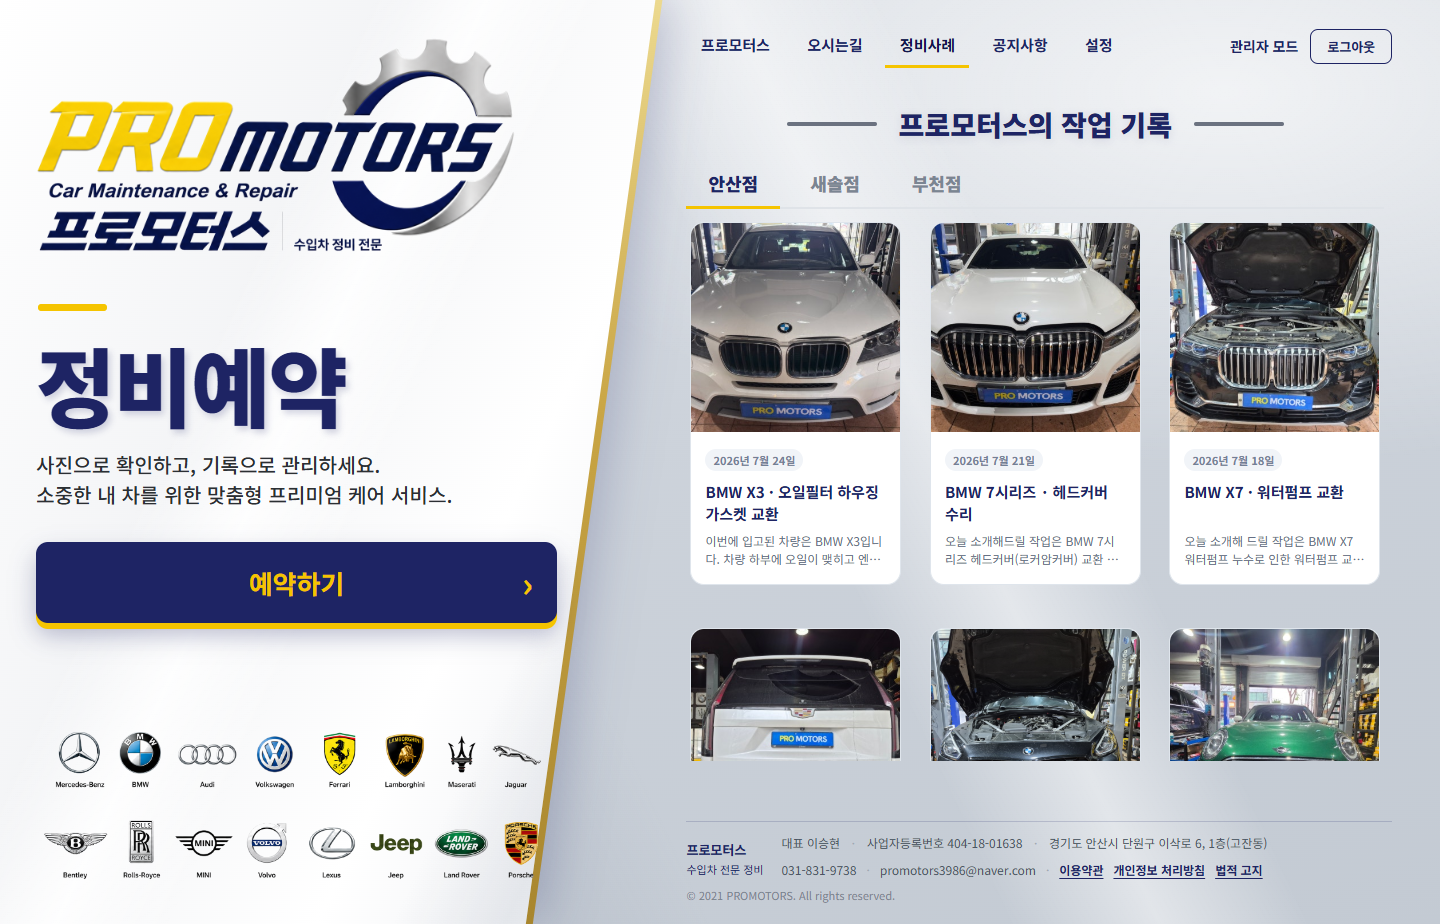
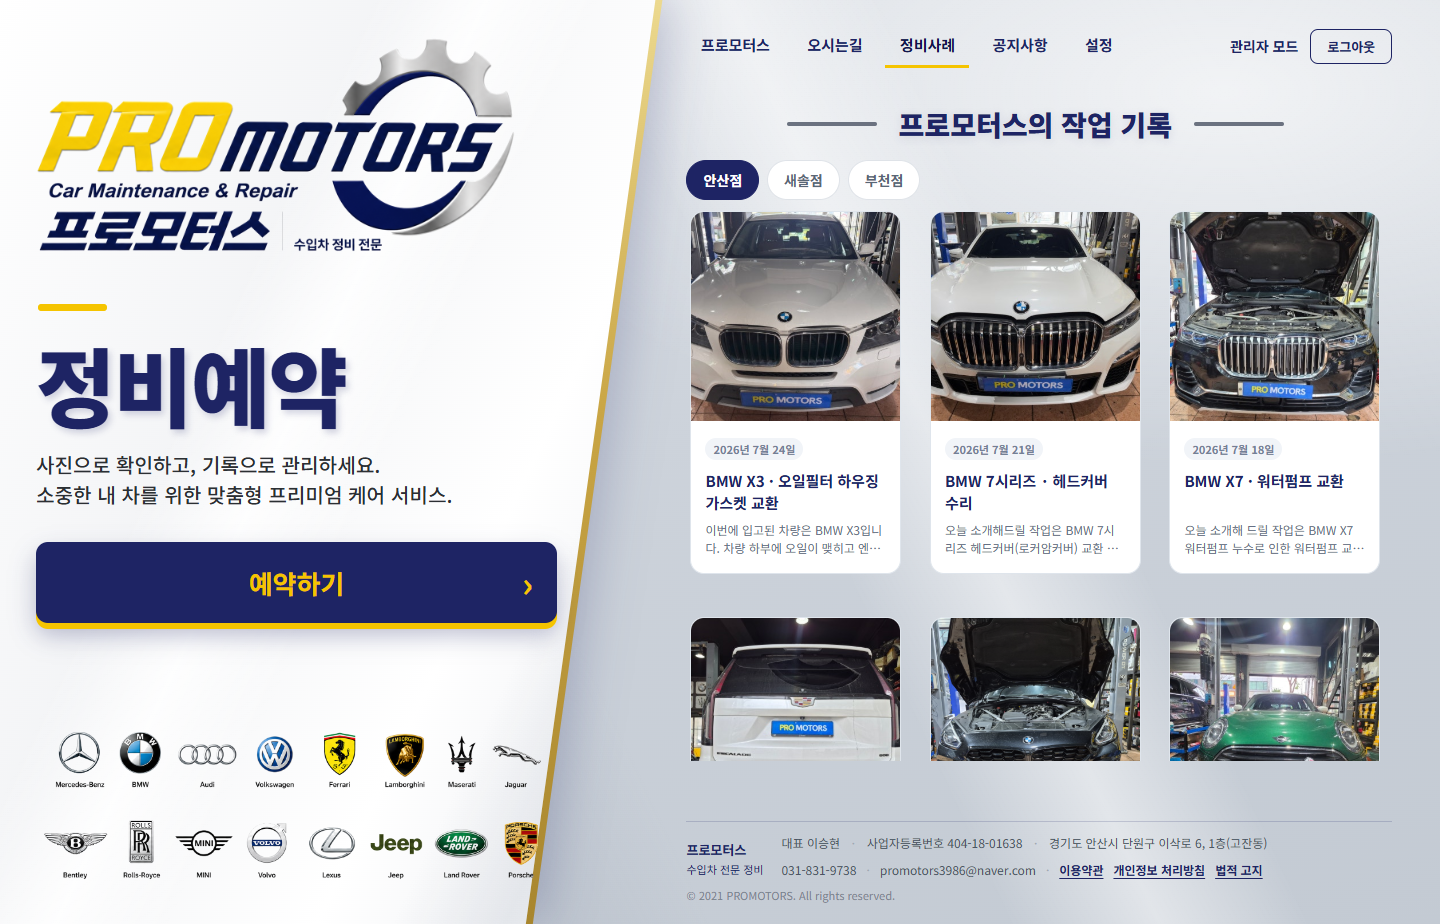
Restyle tabs, calendar, slots, and action buttons to the brand language
Turn the underline tabs into navy pill segments, round the calendar cells
to 12px with a yellow count badge, make time slots 44px pills, and give the
primary actions a 52px pill shape — the same vocabulary the mypage screens
use.

Keep the closed-day badge neutral grey: the markup reuses .cnt for both
"작업 n" and "휴무", and yellow is reserved for counts that need attention.

Captured all 14 screens at 1440 and 390 again: no console errors, no
horizontal scroll.

Changed region(s): [[0.4688, 0.1515, 0.9688, 0.6364], [0.4688, 0.6667, 0.9688, 0.8485]]

diff --git a/style.css b/style.css
@@ -6451,3 +6451,83 @@ button.step-photo-slot {
   font-weight: 800;
   letter-spacing: -0.02em;
 }
+
+/* ---------- 컴포넌트: 탭 → 알약형 세그먼트 ----------
+   마이페이지의 단계 칩과 같은 형태로 맞춘다. 밑줄 탭 → 알약 탭. */
+.tabs,
+.case-branch-tabs {
+  gap: 8px;
+  border-bottom: 0;
+}
+.tab,
+.case-branch-tab {
+  min-height: 40px;
+  padding: 0 16px;
+  border: 1px solid var(--line);
+  border-radius: 999px;
+  background: var(--surface);
+  color: var(--text-muted);
+  font-size: 14px;
+  font-weight: 700;
+  line-height: 1;
+}
+.tab:hover,
+.case-branch-tab:hover { border-color: var(--navy); color: var(--navy); }
+.tab.active,
+.case-branch-tab.active {
+  border-color: var(--navy);
+  background: var(--navy);
+  color: #fff;
+}
+
+/* ---------- 컴포넌트: 캘린더 ---------- */
+.cal-day {
+  border-radius: 12px;
+  border-color: var(--line);
+  font-weight: 600;
+}
+.cal-day.sel {
+  border-color: var(--navy);
+  box-shadow: 0 4px 12px rgba(30, 36, 100, .22);
+}
+.cal-day .cnt {
+  padding: 1px 6px;
+  border-radius: 999px;
+  background: var(--yellow);
+  color: var(--navy);
+  font-size: 11px;
+  font-weight: 800;
+}
+.cal-day.sel .cnt { background: var(--yellow); color: var(--navy); }
+
+/* ---------- 컴포넌트: 시간 슬롯 ---------- */
+.slot {
+  min-height: 44px;
+  padding: 0 14px;
+  border-radius: 999px;
+  border-color: var(--line);
+  font-size: 14px;
+  font-weight: 700;
+}
+.slot.sel { box-shadow: 0 4px 12px rgba(30, 36, 100, .22); }
+
+/* ---------- 컴포넌트: 주요 실행 버튼 ---------- */
+.modal-submit {
+  min-height: 52px;
+  border-radius: 12px;
+  font-size: 16px;
+  font-weight: 800;
+}
+.mini-btn.add {
+  border-radius: 999px;
+  font-weight: 800;
+}
+
+/* 휴무일 배지는 강조색이 아니라 중립색이다 — '작업 n건' 배지와 구분한다.
+   (마크업이 같은 .cnt 를 쓰므로 .closed-day 로 구분) */
+.cal-day.closed-day .cnt,
+.cal-day.closed-day.sel .cnt {
+  background: #eef0f4;
+  color: var(--text-muted);
+  font-weight: 700;
+}
